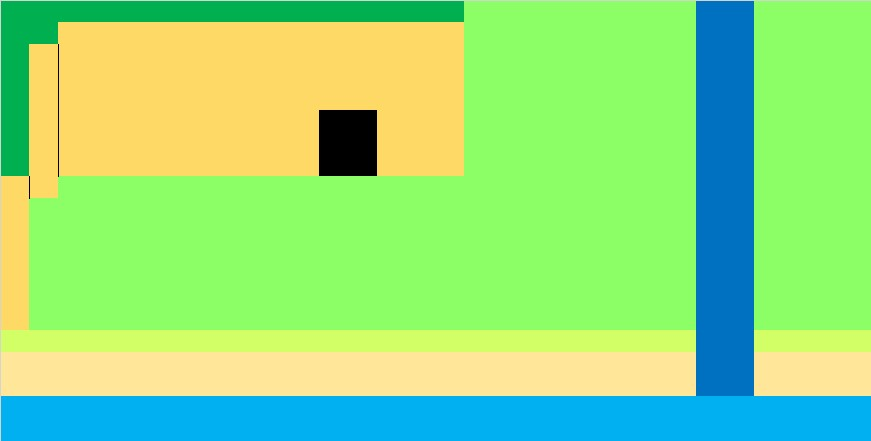
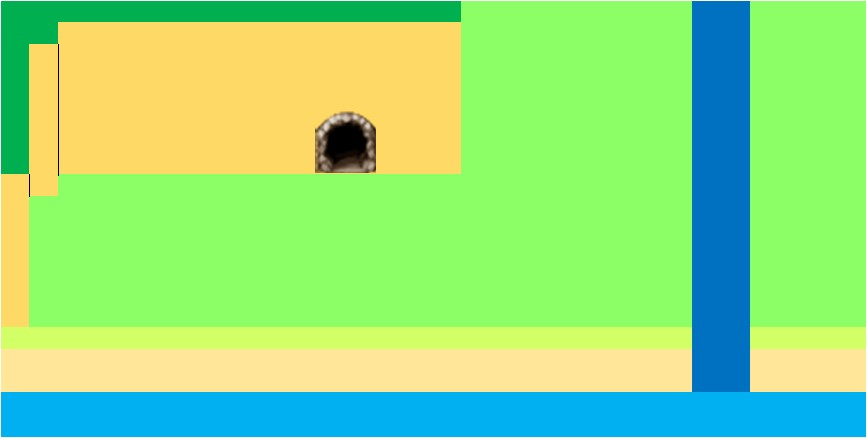
project setting 1st week01

diff --git a/test.py b/test.py
@@ -1,0 +1,50 @@
+import pygame
+#import map
+import map
+
+pygame.init()
+
+WHITE = (255, 255, 255)
+SKY_BLUE = (52, 168, 255)
+size = [900, 450]
+screen = pygame.display.set_mode(size)
+
+done = False
+clock = pygame.time.Clock()
+
+bg = pygame.image.load("images/background/backgroundPixel01.jpg")
+bg = pygame.transform.scale(bg, (900, 450))
+print(bg.get_width(), bg.get_height())
+
+character = pygame.transform.scale(pygame.image.load("images/entity/character01_front01.png"), (60, 45))
+
+def runGame():
+    global done, character
+    x = 3
+    y = 15
+
+    while not done:
+        clock.tick(10)
+        screen.fill(SKY_BLUE)
+
+        for event in pygame.event.get():
+            if event.type == pygame.QUIT:
+                done = True
+
+        key = pygame.key.get_pressed()
+        if key[pygame.K_RIGHT] and map.map1[y][x+1] == 1:
+            x += 1
+        if key[pygame.K_LEFT] and map.map1[y][x-1] == 1:
+            x -= 1
+        if key[pygame.K_DOWN] and map.map1[y+1][x] == 1:
+            y += 1
+        if key[pygame.K_UP] and map.map1[y-1][x] == 1:
+            y -= 1
+
+        screen.blit(bg, (0, 0))
+        screen.blit(character, (x*30, y*20))
+        pygame.display.update()
+
+
+runGame()
+pygame.quit()
